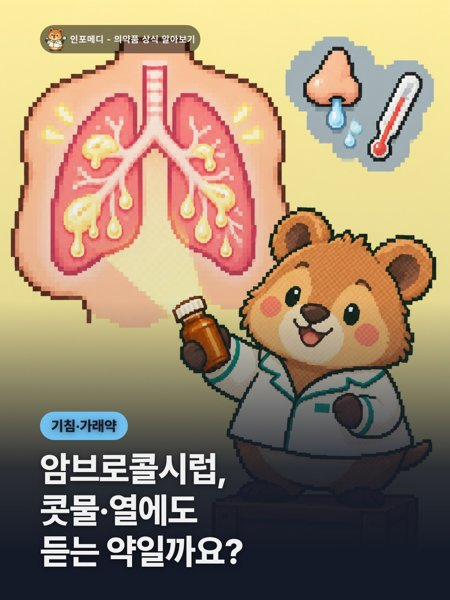
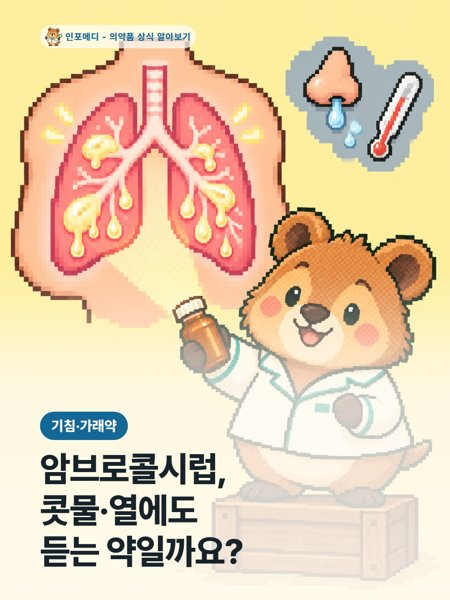
links

diff --git a/index.html b/index.html
@@ -34,7 +34,7 @@
 <section class="section">
 <h2>의약품 정보 <small id="count"></small></h2>
 <div class="grid" id="list">
-<a class="item" href="https://blog.naver.com/info_medi_/224429325091"><img src="c/암브로콜시럽-white.jpg" alt="" loading="lazy">
+<a class="item" href="https://blog.naver.com/info_medi_/224429325091"><img src="c/암브로콜시럽.jpg" alt="" loading="lazy">
 <span><b>암브로콜시럽, 콧물·열에도 듣는 약일까요?</b><small><time datetime="2026-10-16 17:05"></time></small></span></a>
 <a class="item" href="https://blog.naver.com/info_medi_/224422853680"><img src="c/두타스테리드.jpg" alt="" loading="lazy">
 <span><b>두타스테리드, 여성 탈모에도 써도 될까요?</b><small><time datetime="2026-10-16 09:42"></time></small></span></a>
